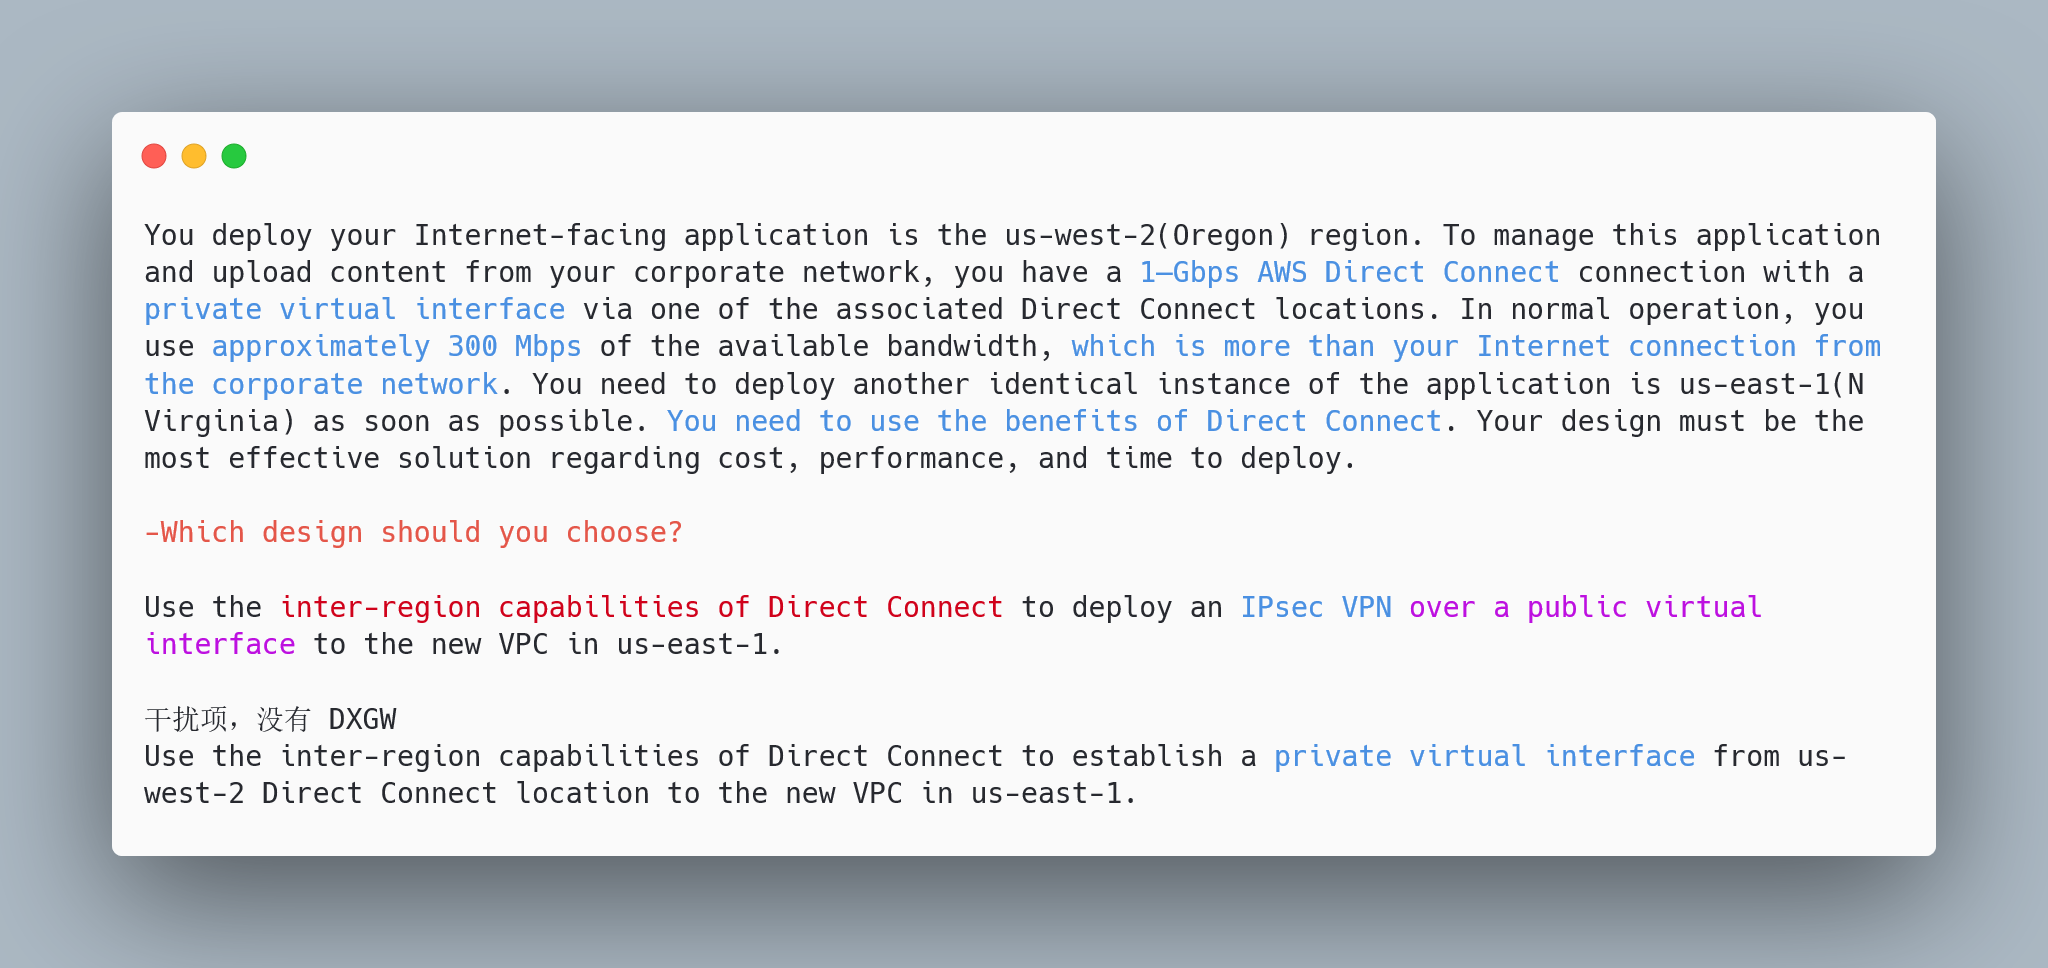
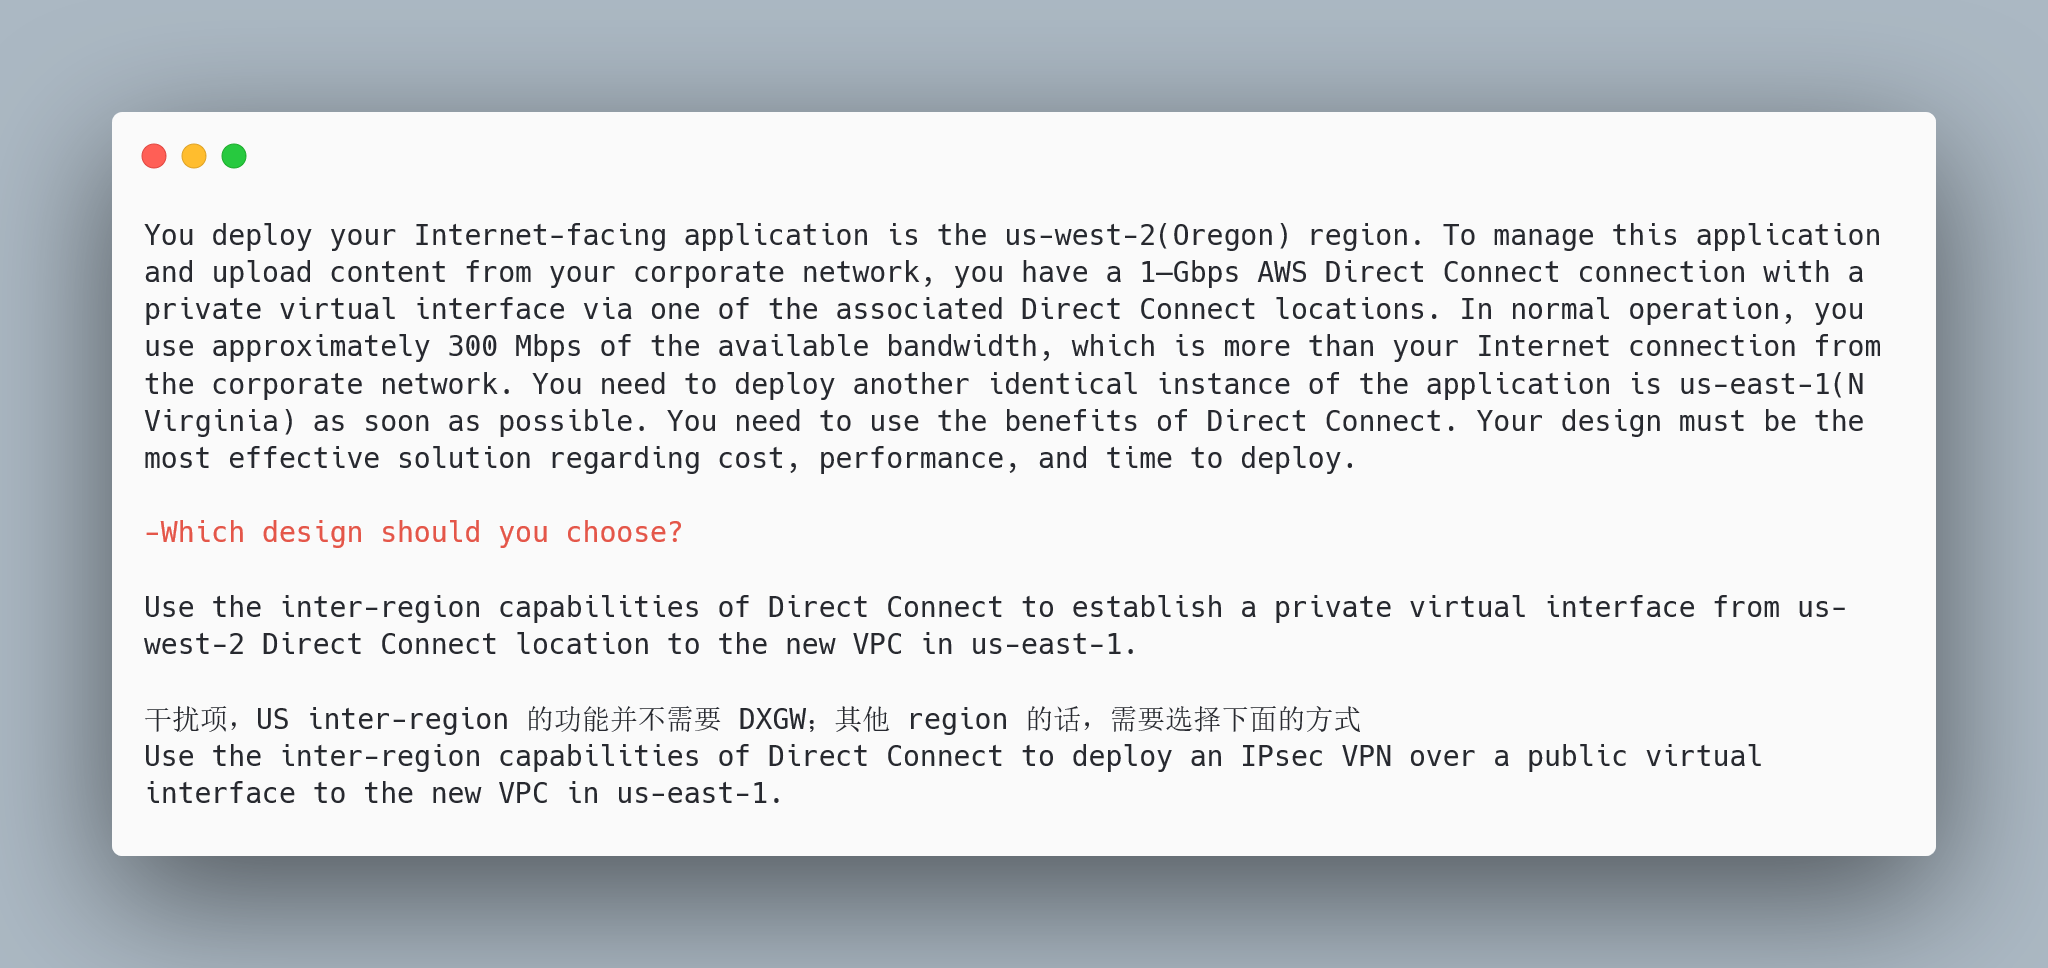
dx-multiple-regions

diff --git a/_posts/2022-11-15-AWS Networking and Content Delivery.md b/_posts/2022-11-15-AWS Networking and Content Delivery.md
@@ -439,7 +439,8 @@ S3 intf 走的是 private subnet/ip；gw 是 public ip
 ![post-Direct-Connect-MACsec-associate-MACsec-keys](/assets/img/post-Direct-Connect-MACsec-associate-MACsec-keys.png)  
 
 ## one DX access to multiple US regions
-- on-prem 和某个 US regions VPC 建立 **dedicated** DX，[同一条 DX 可以打通 on-prem 与 US 其他 regions](https://aws.amazon.com/cn/blogs/aws/aws-direct-connect-access-to-multiple-us-regions/), DX inter-region capability     
+- on-prem 和某个 US regions VPC 建立 **dedicated** DX，[同一条 DX 可以打通 on-prem 与 US 其他 regions](https://aws.amazon.com/cn/blogs/aws/aws-direct-connect-access-to-multiple-us-regions/), DX inter-region capability
+- blog 的时间是 2013 年，还没有 DXGW(2017-Nov-01 announced)，所以说 US regions 的 inter-region 功能，并不需要 DXGW；和后面的 access a remot AWS region(DXGW needed) 不一样
 - on-prem -- Direct Connect -- US region 1 -- AWS network -- US region 2，跨 region 的流量由 AWS 负责，路由表由 AWS 负责 (BGP 路由通告）    
 ![post-Direct-Connect-inter-region-capability](/assets/img/post-Direct-Connect-inter-region-capability.png)  
 
@@ -451,7 +452,7 @@ S3 intf 走的是 private subnet/ip；gw 是 public ip
 - could **access a VPC** in your account as well
   - *DXGW in any region*, DXGW -- DX connection --- private VIF --- remote region VPCs, or TGW
   - or *public VIF for DX connection, then establis a VPN connection to your VPC in remote region* 
-  - ![post-Direct-Connect-assecc-remote-region-example](/assets/img/post-Direct-Connect-assecc-remote-region-example.png)
+  - 和 US region 那里是同一道题，只不过关注点不同 ![post-Direct-Connect-assecc-remote-region-example](/assets/img/post-Direct-Connect-assecc-remote-region-example.png)
 - [single AWS DX connection for multi-Region servies](https://docs.aws.amazon.com/directconnect/latest/UserGuide/remote_regions.html)
 - All networking traffic remains on the AWS global network backbone
 ![post-Direct-Connect-one-DX-connection-remote-Regions](/assets/img/post-Direct-Connect-one-DX-connection-remote-Regions.png)  
@@ -465,7 +466,7 @@ S3 intf 走的是 private subnet/ip；gw 是 public ip
 - [public VIF 的 Active/Passive 路由控制](https://aws.amazon.com/premiumsupport/knowledge-center/dx-create-dx-connection-from-public-vif/?nc1=h_ls)  
 - 默认情况下，public VIF 会将 AWS global public IP prefix 通过 BGP 通告给 on-prem；用户可以联系 AWS 来通告 customer-owned IP prefix  
 - public VIF, private VIF 都可以使用 public(customer must own it) or private(64512-65535) ASN  
-  - 如果使用public BGP ASN，customer must own it; only public BGP ASG support AS_PATH Prepending
+  - 如果使用 public BGP ASN，customer must own it; only public BGP ASG support AS_PATH Prepending
   - [post-Direct-Connect-public-VIF-route-control-example](/assets/img/post-Direct-Connect-public-VIF-route-control-example.png)
 - [public VIF 收到的客户侧路由明细，不会传播到 Internet 以及 AWS partner](https://docs.amazonaws.cn/en_us/directconnect/latest/UserGuide/routing-and-bgp.html)，使用 `no_export` 属性控制  
   - 但是 [客户侧通告到 AWS 的路由明细，是保留在 AWS DX 同 region，还是到 AWS all region(global)](https://docs.amazonaws.cn/en_us/directconnect/latest/UserGuide/routing-and-bgp.html)，可以通过 `scope BGP community tags` 来控制  
